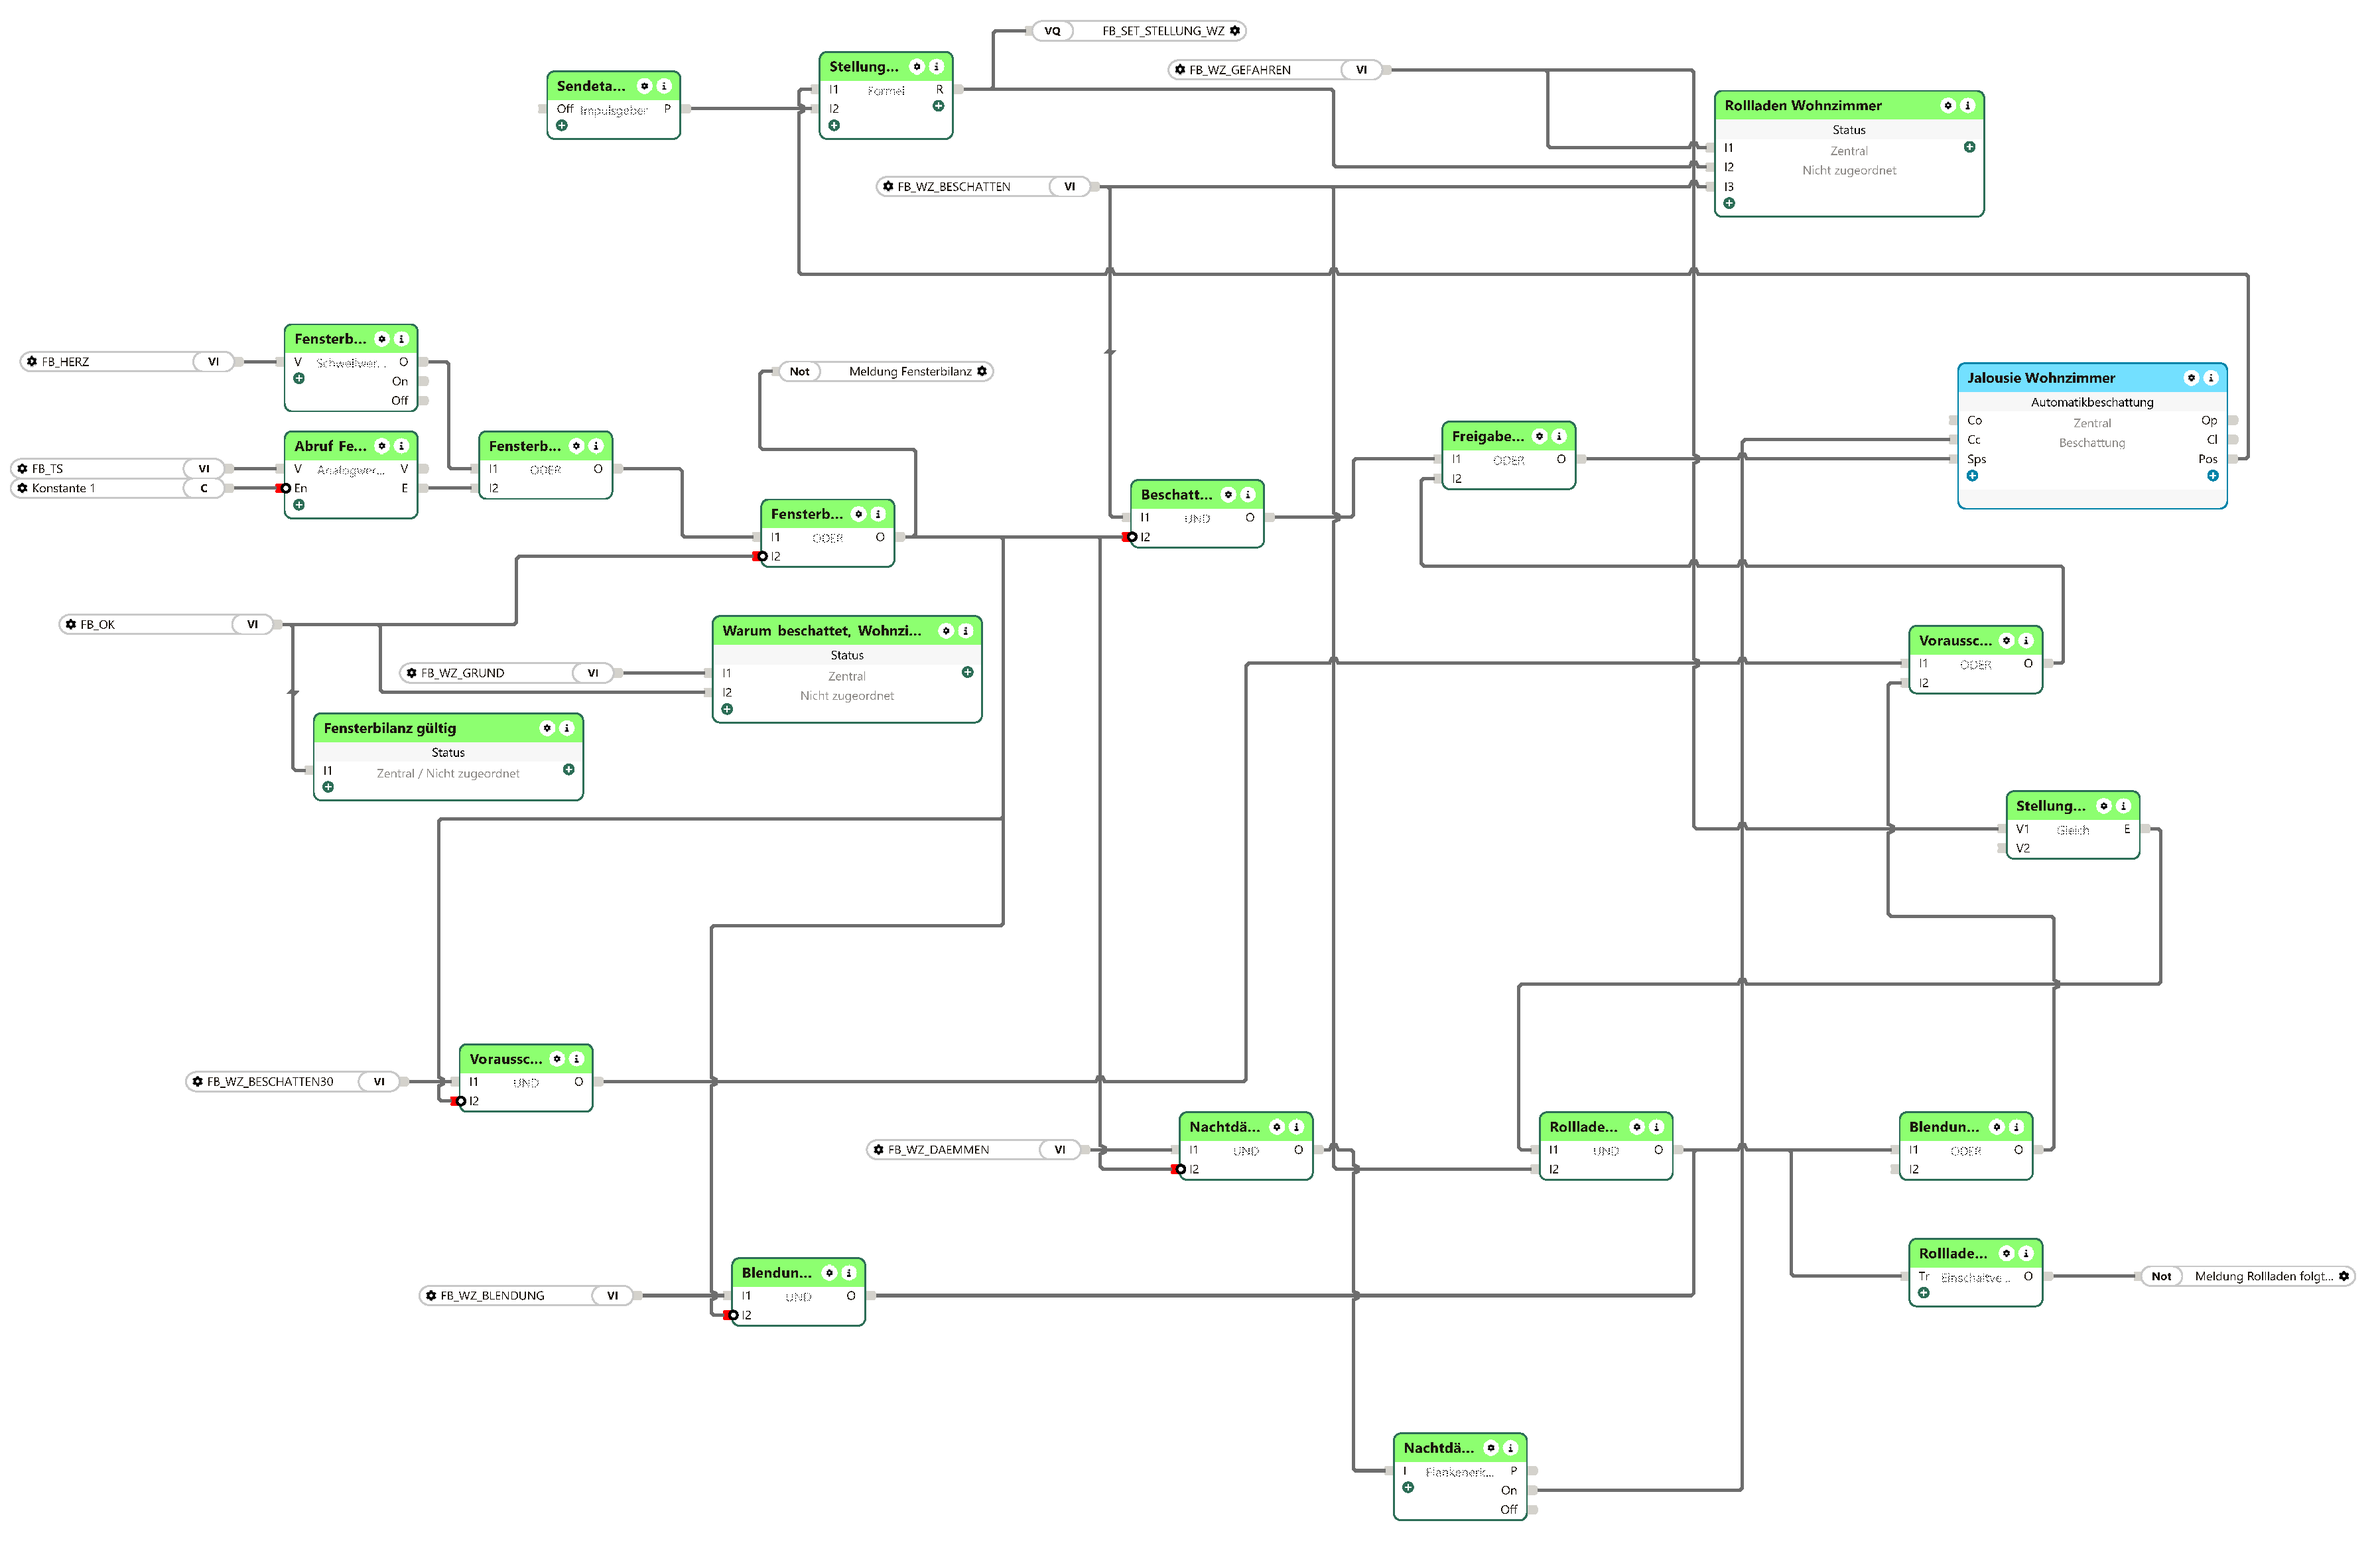
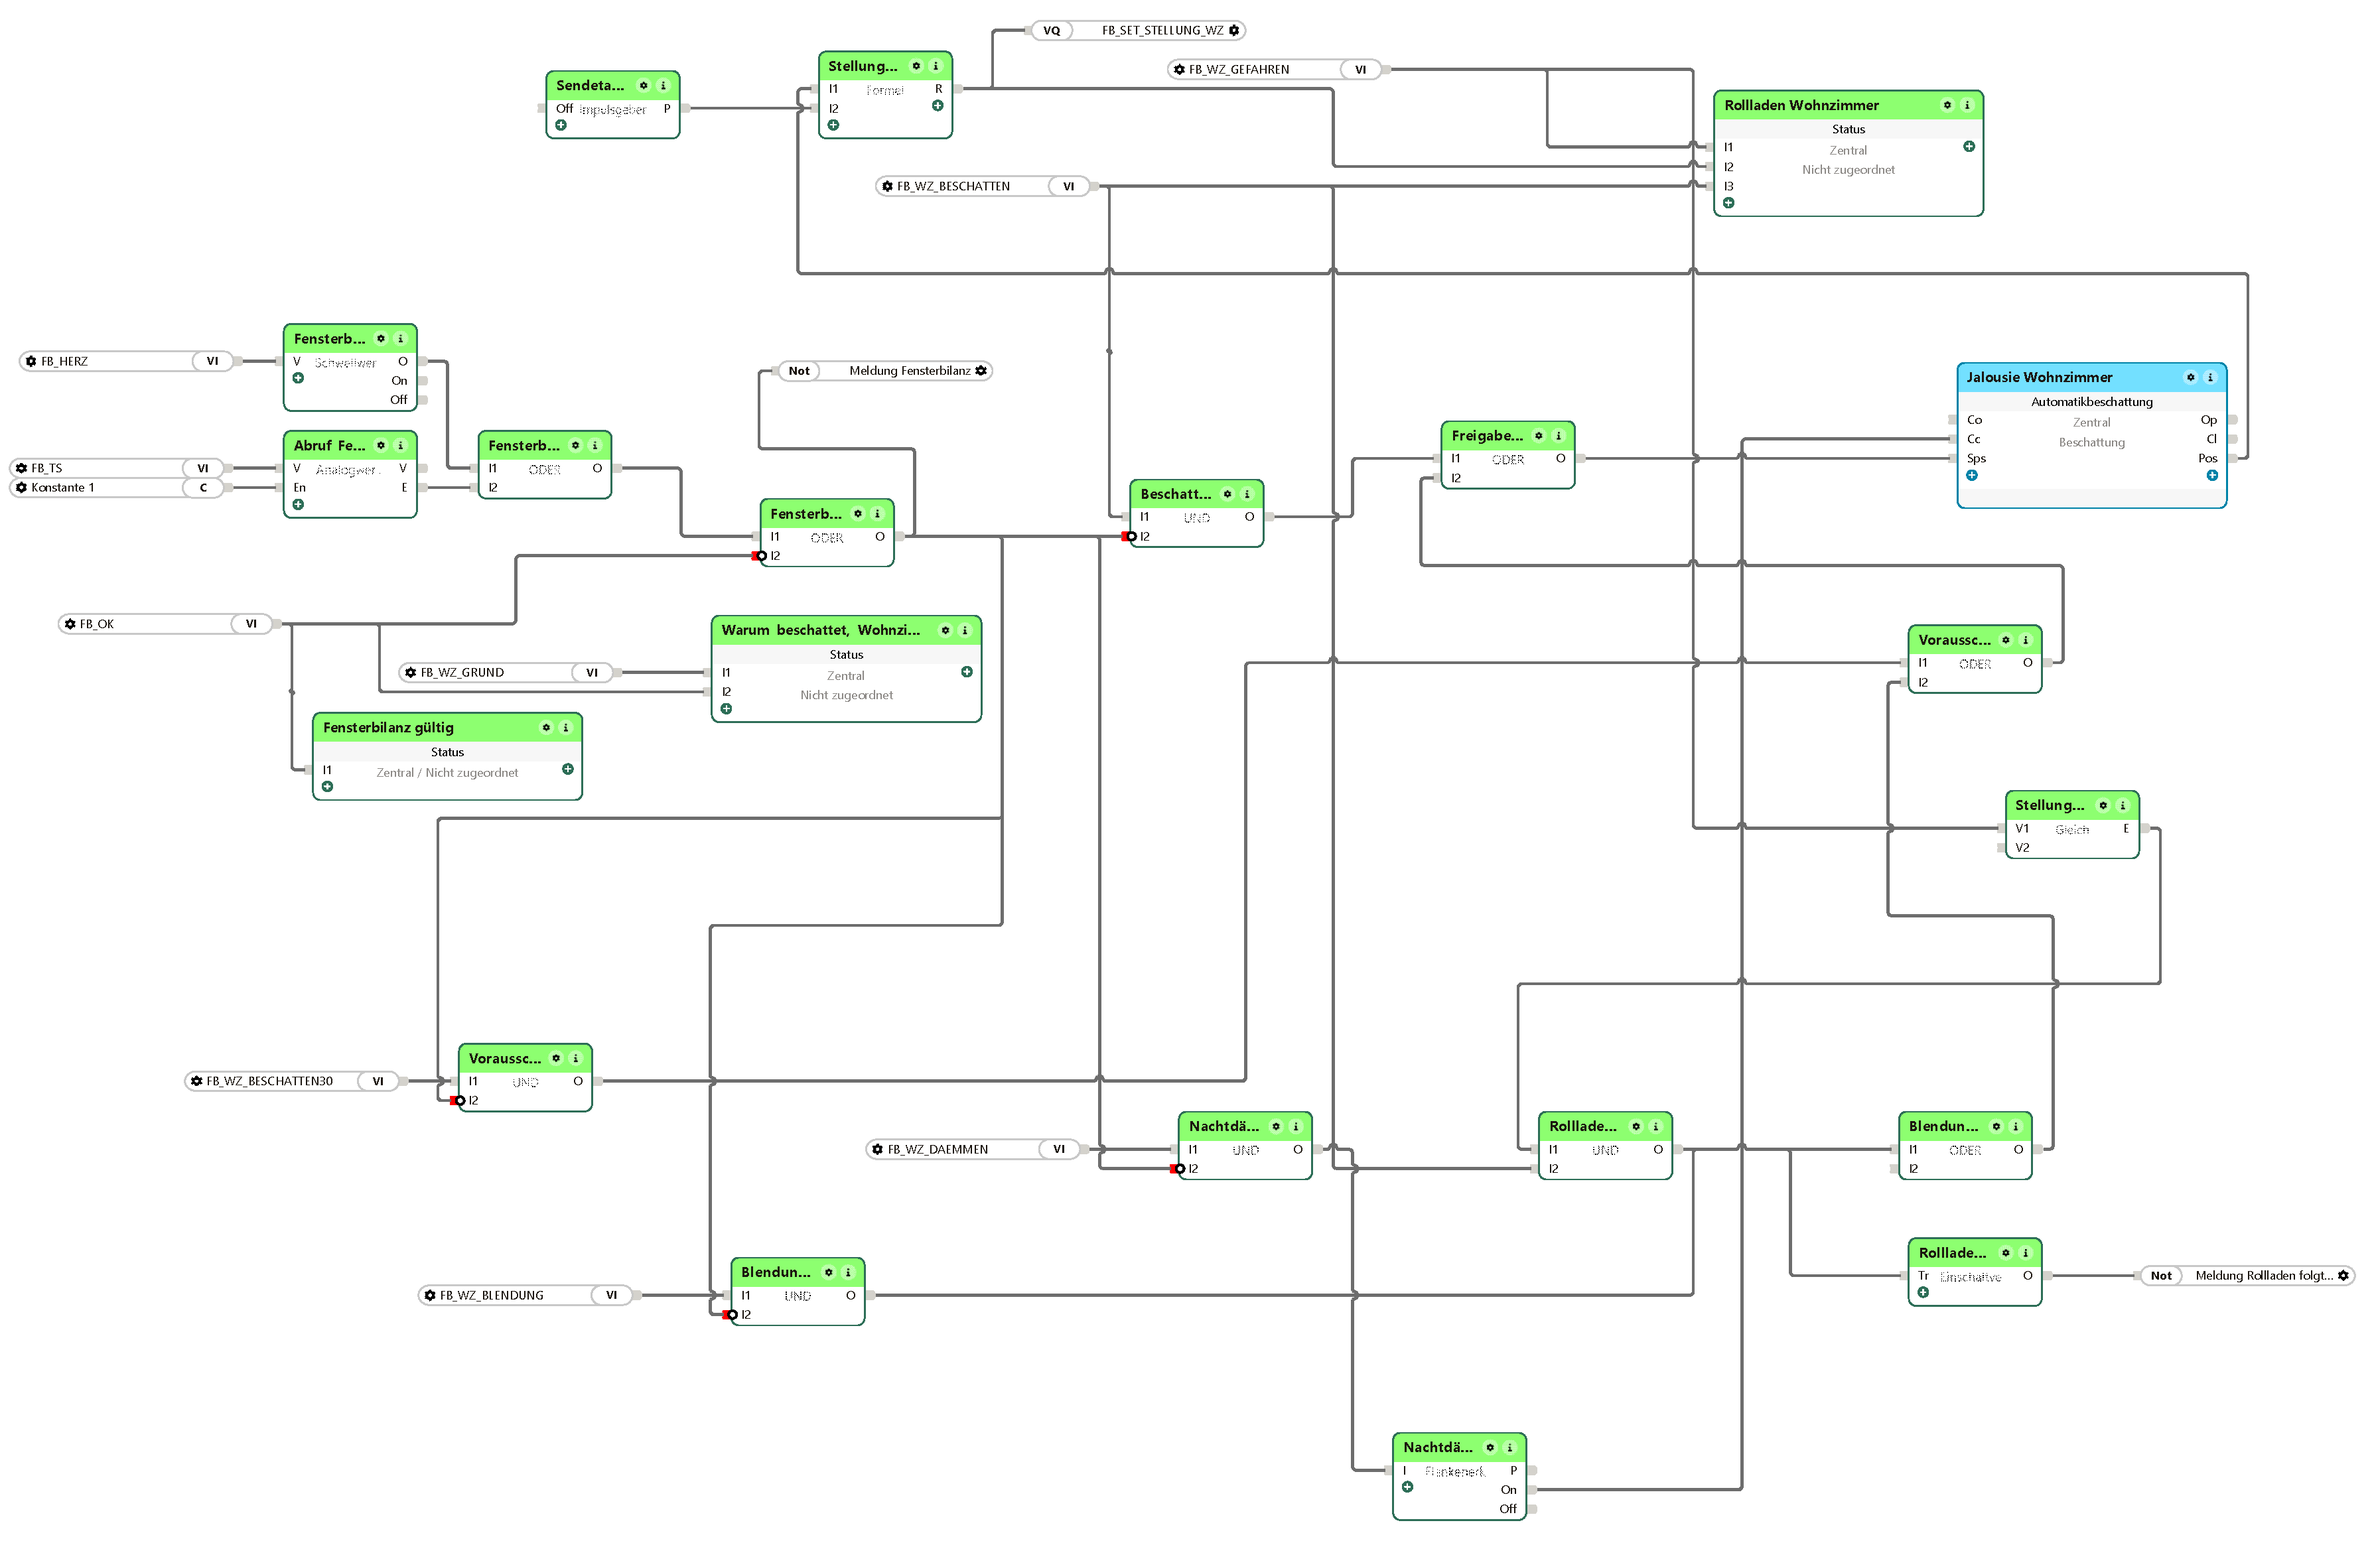
Beschattung_Fensterbilanz 0.12.18: Einbindung: Eingang En der Analogwertvalidierung nicht negieren (Hinweis, Bild)
**Einbindung in Loxone:** Eingang En der Analogwertvalidierung (#18 „Abruf Fensterbilanz steht“ auf der Seite
„Fensterbilanz“) nicht negieren (Hinweis in Schritt 7 des Kastens und neues Bild). Config legt den Eingang
negiert an; die Konstante 1 (#17) kam dann als 0 an, und ohne diese Korrektur löste die Ausfallmeldung nie
aus. Wer die Seite schon gebaut hat: im Eigenschaftsfenster der Analogwertvalidierung unter Parameter den
Haken bei „En“ entfernen. Gerendert unter PHP 7.4, 8.4 und 8.5, nicht am Gerät angesehen.

diff --git a/README.md b/README.md
@@ -1,6 +1,6 @@
 # LoxBerry-Plugin „Beschattung Fensterbilanz"
 
-Version 0.12.17
+Version 0.12.18
 
 Ein Urteil je Fenster: **ist der Sonneneintrag durchs Glas gerade erwünscht?**
 Eine Zahl von −100 (unbedingt beschatten) bis +100 (Sonne hereinlassen), dazu
@@ -10,6 +10,14 @@ tokengeschützten HTTP-Endpunkt.
 **Das Plugin schaltet nichts.** Es ersetzt den `AutoJalousie`-Baustein nicht.
 Es liefert die eine Größe, die Loxone fehlt, und hängt an dessen Eingang
 `AutoShade`.
+
+## Neu in 0.12.18
+
+**Einbindung in Loxone:** Eingang En der Analogwertvalidierung (#18 „Abruf Fensterbilanz steht“ auf der Seite
+„Fensterbilanz“) nicht negieren (Hinweis in Schritt 7 des Kastens und neues Bild). Config legt den Eingang
+negiert an; die Konstante 1 (#17) kam dann als 0 an, und ohne diese Korrektur löste die Ausfallmeldung nie
+aus. Wer die Seite schon gebaut hat: im Eigenschaftsfenster der Analogwertvalidierung unter Parameter den
+Haken bei „En“ entfernen. Gerendert unter PHP 7.4, 8.4 und 8.5, nicht am Gerät angesehen.
 
 ## Neu in 0.12.17
 
